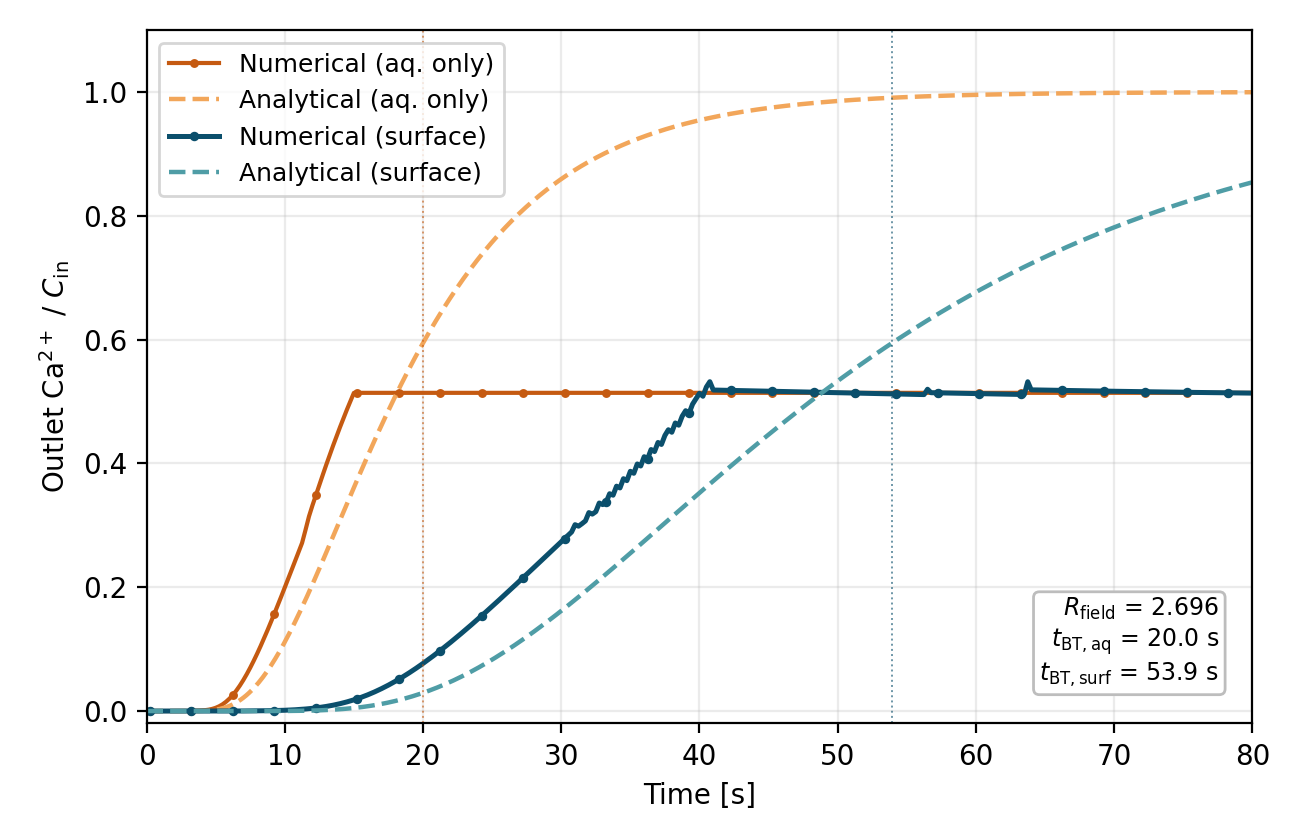
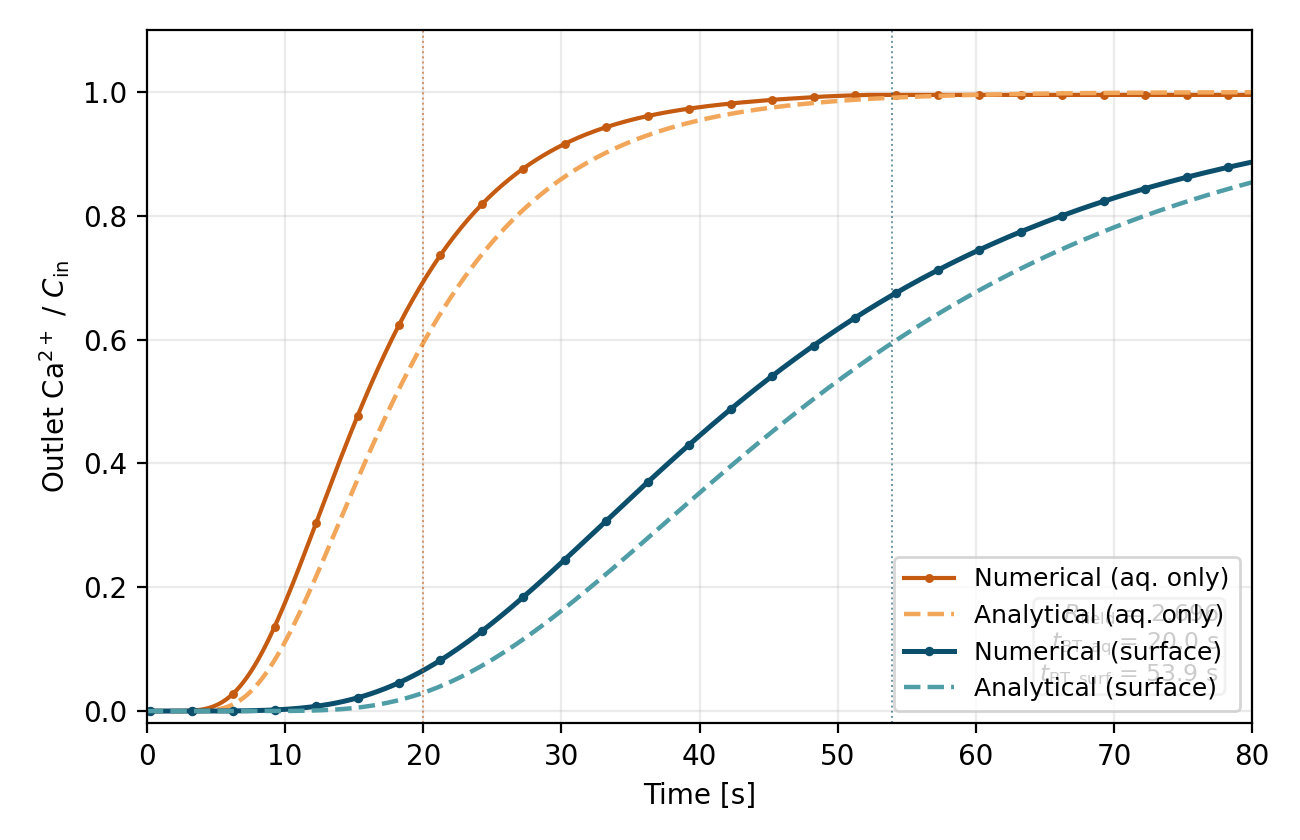
fix: correct 1D benchmark and regenerate breakthrough figure
- Set aSurf=0 for aqueous-only transport runs in phase8AnalyticalTools.py
  (was incorrectly hardcoded to BASE_ASURF regardless of surface flag)
- Tighten species solver tolerance from 1e-6 to 1e-8 (relTol 0) to
  prevent transport solver stagnating before the front fully sweeps the
  domain; the aqueous probe now rises to ~0.995×C_in by t=75 s
- Regenerate fig01 and fig06 from the corrected runs
- Update validation error metrics in 05_validation.tex:
  surface L1/Linf 0.75/2.68% → 1.43/3.67%,
  aqueous L1/Linf 1.87/8.44% → 1.08/5.97%,
  inventory drift 0.67/2.41% → 1.57/0.58%

diff --git a/sections/05_validation.tex b/sections/05_validation.tex
@@ -24,12 +24,12 @@ $1/R_{\mathrm{field}} \approx 37\%$ of the aqueous-only front velocity.
 The mesh contains $80 \times 1 \times 1$ cells and uses a species diffusion
 coefficient of $10^{-11}\ \mathrm{m^2\,s^{-1}}$.
 The surface-enabled profile matches the retarded advection--diffusion reference
-with a relative L1 error of $0.75\%$ and $L_{\infty}$ error of $2.68\%$.
+with a relative L1 error of $1.43\%$ and $L_{\infty}$ error of $3.67\%$.
 The aqueous-only profile matches its unretarded reference with L1 and
-$L_{\infty}$ errors of $1.87\%$ and $8.44\%$, respectively.
+$L_{\infty}$ errors of $1.08\%$ and $5.97\%$, respectively.
 The field-level total-equivalent inventory---the domain integral of the combined
-aqueous and adsorbed mass---differs from the analytical limit by $0.67\%$ for
-the surface-enabled run and by $2.41\%$ for the aqueous-only run.
+aqueous and adsorbed mass---differs from the analytical limit by $1.57\%$ for
+the surface-enabled run and by $0.58\%$ for the aqueous-only run.
 
 The solver therefore reproduces the dilute field-level retardation limit of the
 DBS formulation at sub-percent bulk inventory accuracy. Because the domain
@@ -93,7 +93,7 @@ checks.
         \toprule
         Check & Metric & Result \\
         \midrule
-        Analytical 1D & Surface L1 / total drift & $0.75\%$ / $0.67\%$ \\
+        Analytical 1D & Surface L1 / total drift & $1.43\%$ / $1.57\%$ \\
         Splitting     & Local / bulk drift        & $3$--$4.5\%$ / $<0.6\%$ \\
         Timestep      & Local / bulk drift        & $\approx 3\%$ / $0.25\%$ \\
         Mesh          & Front / total drift       & $2.5\times 10^{-7}$ / $0.37\%$ \\
